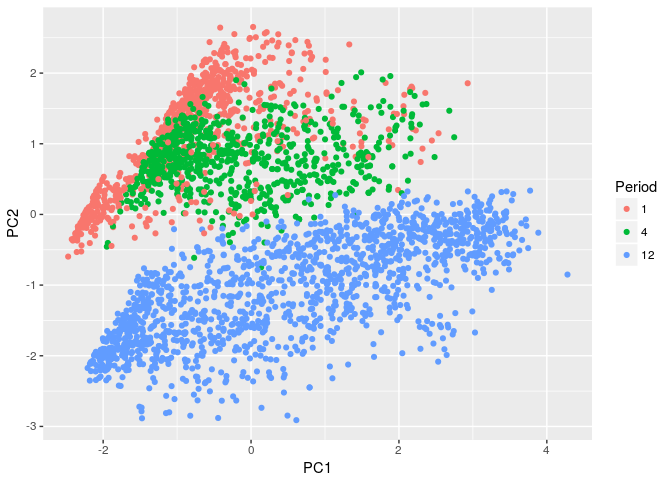
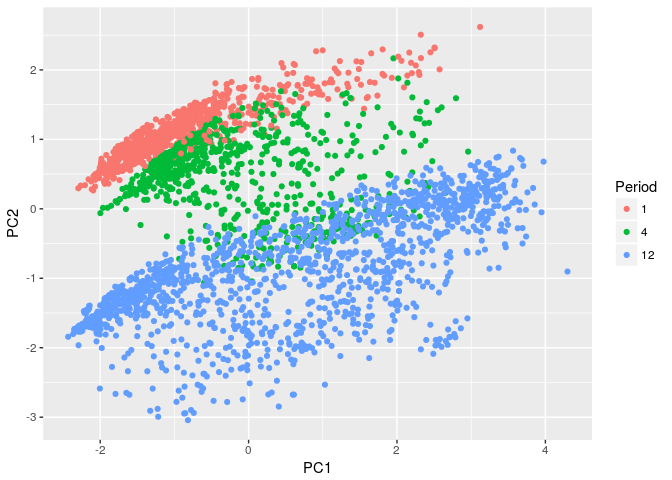
Updated readme

diff --git a/README.md b/README.md
@@ -30,22 +30,32 @@ library(tidyverse)
 library(anomalous)
 
 # Compute the features used in Hyndman, Wang & Laptev (ICDM 2015).
-# Note that crossing_points is defined slightly differently in the tsfeatures
-# package than in the Hyndman et al (2015) paper. Other features are the same.
-# Using the real data from the paper
+# Note that crossing_points, peak and trough are defined differently 
+# in the tsfeatures package than in the Hyndman et al (2015) paper. 
+# Other features are the same. Using the real data from the paper
 yahoo <- cbind(dat0, dat1, dat2, dat3)
 hwl <- bind_cols(
          tsfeatures(yahoo,
-           c("acf1","stl_features","entropy","lumpiness",
+           c("acf1","entropy","lumpiness",
              "flat_spots","crossing_points")),
+         tsfeatures(yahoo,"stl_features", s.window='periodic', robust=TRUE),
          tsfeatures(yahoo, "max_kl_shift", width=48),
          tsfeatures(yahoo,
            c("mean","var"), scale=FALSE, na.rm=TRUE),
          tsfeatures(yahoo,
            c("max_level_shift","max_var_shift"), trim=TRUE)) %>%
-  select(mean, var, acf1, trend, linearity, curvature, season, peak, trough,
+  select(mean, var, acf1, trend, linearity, curvature, 
+         seasonal_strength, peak, trough,
          entropy, lumpiness, spike, max_level_shift, max_var_shift, flat_spots,
          crossing_points, max_kl_shift, time_kl_shift)
+#> Warning in predict.lm(fit, newdata = data.frame(X)): prediction from a
+#> rank-deficient fit may be misleading
+
+#> Warning in predict.lm(fit, newdata = data.frame(X)): prediction from a
+#> rank-deficient fit may be misleading
+
+#> Warning in predict.lm(fit, newdata = data.frame(X)): prediction from a
+#> rank-deficient fit may be misleading
 ```
 
 ``` r
@@ -65,29 +75,45 @@ library(tsfeatures)
 library(tidyverse)
 library(forecast)
 
+
+# Compute the features used in Kang, Hyndman & Smith-Miles (IJF 2017).
+# Note that the trend and ACF1 are computed differently for non-seasonal
+# data in the tsfeatures package than in the Kang et al (2017). 
+# tsfeatures uses mstl() which uses supsmu() for the trend calculation with 
+# non-seasonal data, whereas Kang et al used a penalized regression spline
+# computed using mgcv instead.  Other features are the same.
+
 M3data <- purrr::map(Mcomp::M3, 
   function(x){
       tspx <- tsp(x$x)
       ts(c(x$x,x$xx), start=tspx[1], frequency=tspx[3])
   })
+khs_stl <- function(x,...)
+{
+  lambda <- BoxCox.lambda(x, lower=0, upper=1, method='loglik')
+  y <- BoxCox(x, lambda)
+  c(stl_features(y,s.window='periodic', robust=TRUE, ...), lambda=lambda)
+}
 khs <- bind_cols(
   tsfeatures(M3data, c("frequency", "entropy")),
-  tsfeatures(M3data, "stl_features", scale=FALSE, transform=TRUE, lower=0, upper=1, method='loglik'),
-  tsfeatures(M3data, "BoxCox.lambda", scale=FALSE, lower=0, upper=1, method="loglik")) %>% 
-  select(frequency, entropy, trend, season, acfremainder, BoxCox.lambda) %>%
-  replace_na(list(season=0)) %>%
+  tsfeatures(M3data, "khs_stl", scale=FALSE)) %>% 
+  select(frequency, entropy, trend, seasonal_strength, acfremainder, lambda) %>%
+  replace_na(list(seasonal_strength=0)) %>%
   rename(
-    Period = frequency,
+    Frequency = frequency,
     Entropy = entropy,
     Trend = trend,
-    Season = season,
+    Season = seasonal_strength,
     ACF1 = acfremainder,
-    Lambda = BoxCox.lambda)
+    Lambda = lambda) %>%
+  mutate(Period = as.factor(Frequency))
 ```
 
 ``` r
 # Fig 1 of paper
-GGally::ggpairs(khs)
+khs %>% 
+  select(Period, Entropy, Trend, Season, ACF1, Lambda) %>%
+  GGally::ggpairs()
 ```
 
 ![](READMEfigs/ijf2017graphs-1.png)
@@ -95,9 +121,9 @@ GGally::ggpairs(khs)
 ``` r
 
 # 2-d Feature space (Top of Fig 2)
-prcomp(khs, scale=TRUE)$x %>%
+prcomp(select(khs, -Period), scale=TRUE)$x %>%
   as_tibble() %>%
-  bind_cols(Period=as.factor(khs$Period)) %>%
+  bind_cols(Period=khs$Period) %>%
   ggplot(aes(x=PC1, y=PC2)) +
     geom_point(aes(col=Period))
 ```
